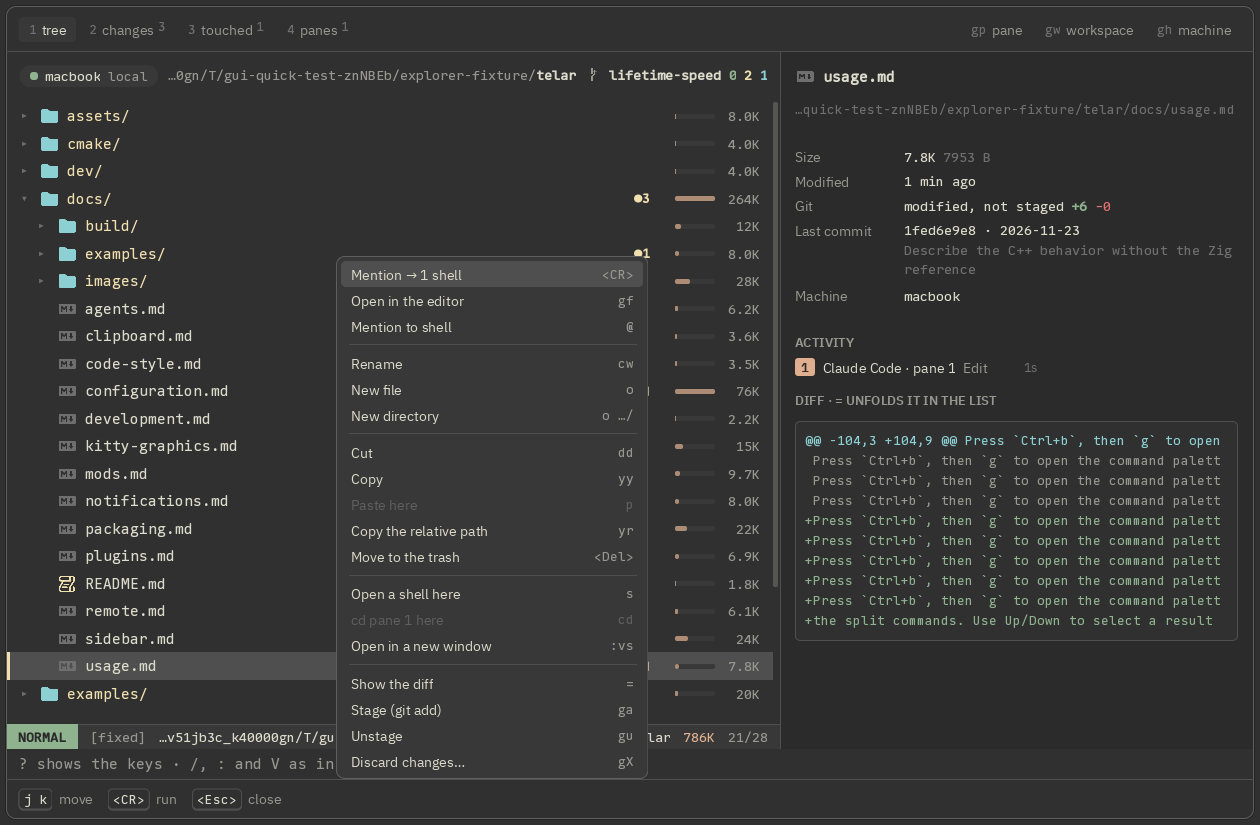
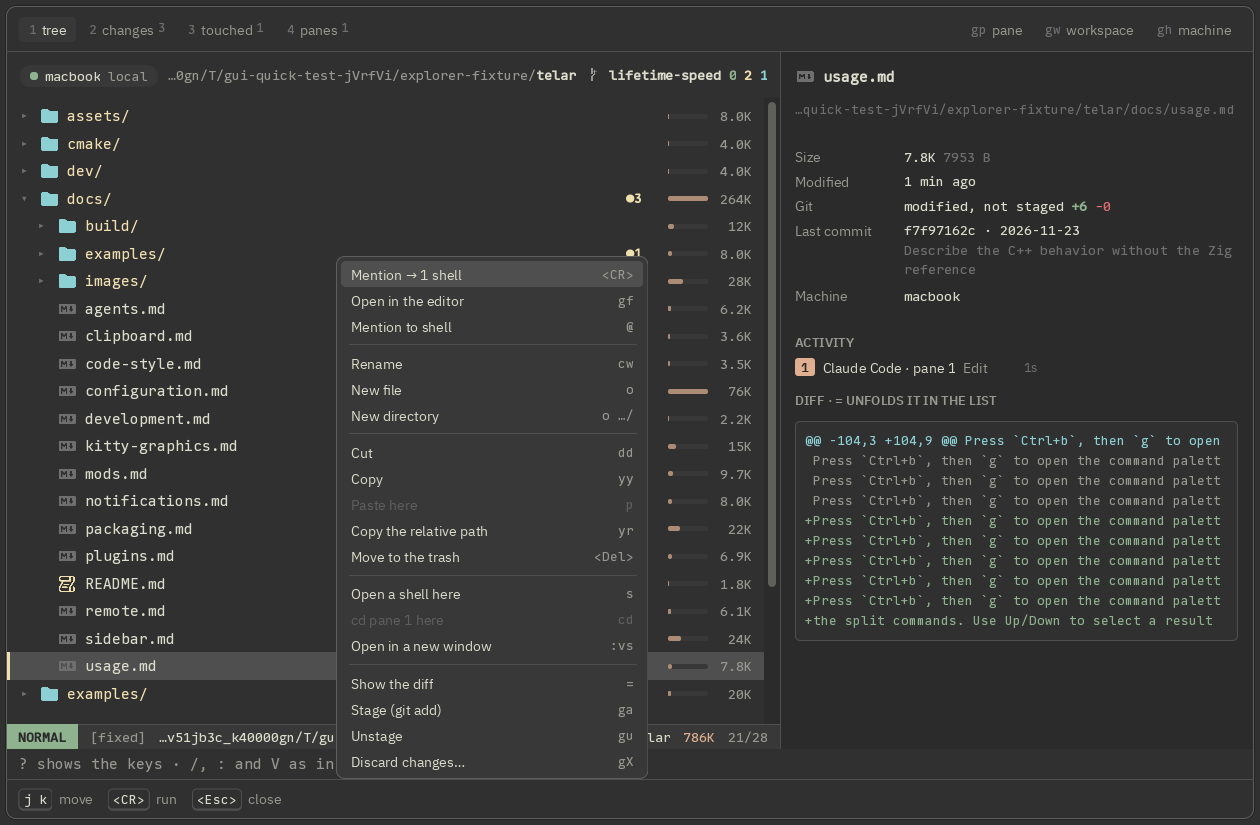
Leave the rows the room of the design's scroll track
The list's own scroll mark was thinner than the one in the design's
picture, so what a row says at its right, who touched it, what git says,
its share and its size, stood seven pixels further right than there.
The rows leave a track as wide as the design's, with the mark in it, and
those columns are where the picture has them, within two pixels.

diff --git a/src/gui/ui/app/overlays/explorer/ExplorerOverlay.qml b/src/gui/ui/app/overlays/explorer/ExplorerOverlay.qml
@@ -85,6 +85,7 @@ FocusScope {
     readonly property real barHeight: Math.round(35.2 * ratio)
     readonly property real commandHeight: Math.round(24 * ratio)
     readonly property real hintsHeight: Math.round(30.4 * ratio)
+    readonly property real scrollTrack: Math.round(12.8 * ratio)
     readonly property real previewWidth: pinned || windows.length > 1 ? 0 : Math.round(Math.max(300 * ratio, body.width * 0.38))
     readonly property real indent: 14 * ratio
     readonly property real gutter: 10 * ratio
@@ -774,7 +775,7 @@ FocusScope {
                             readonly property color nameColor: record.removed ? root.colors.red : record.added ? root.colors.green : record.renamed ? root.colors.yellow : record.ignored ? root.colors.overlay1 : record.directory ? root.colors.accent : root.colors.text
 
                             y: root.rowY(index)
-                            width: list.width - (scrollbar.visible ? scrollbar.width + 2 * root.ratio : 0)
+                            width: list.width - (scrollbar.visible ? scrollbar.width : 0)
                             height: root.rowY(index + 1) - y
 
                             // The directory that would take the rows dragged.
@@ -1013,7 +1014,7 @@ FocusScope {
                                     Rectangle {
                                         id: track
                                         // Beside the size, which is four letters wide at most.
-                                        x: Math.round(parent.width - (30.4 + 6 + 32) * root.ratio)
+                                        x: Math.round(parent.width - (4 * 7.2 + 6 + 32) * root.ratio)
                                         y: Math.round((parent.height - height) / 2)
                                         width: 32 * root.ratio
                                         height: 4 * root.ratio
@@ -1193,18 +1194,26 @@ FocusScope {
                         }
                     }
 
-                    // Where the rows shown stand in the listing.
+                    // Where the rows shown stand in the listing: a track the rows leave free, as
+                    // wide as the design's, and in it the part that shows.
                     Rectangle {
                         id: scrollbar
                         readonly property real share: pane.modelData.rows > 0 ? Math.min(1, pane.modelData.page / pane.modelData.rows) : 1
 
-                        x: parent.width - width - 2 * root.ratio
-                        y: 4 * root.ratio + (pane.modelData.rows > 0 ? (parent.height - 8 * root.ratio) * pane.modelData.top / pane.modelData.rows : 0)
-                        width: 4 * root.ratio
-                        height: Math.max(16 * root.ratio, (parent.height - 8 * root.ratio) * share)
-                        radius: width / 2
-                        color: Qt.alpha(root.colors.text, 0.22)
+                        x: parent.width - width
+                        width: root.scrollTrack
+                        height: parent.height
+                        color: root.colors.panel_bg
                         visible: share < 1
+
+                        Rectangle {
+                            x: Math.round((parent.width - width) / 2)
+                            y: 4 * root.ratio + (pane.modelData.rows > 0 ? (parent.height - 8 * root.ratio) * pane.modelData.top / pane.modelData.rows : 0)
+                            width: Math.round(6.4 * root.ratio)
+                            height: Math.max(16 * root.ratio, (parent.height - 8 * root.ratio) * scrollbar.share)
+                            radius: width / 2
+                            color: Qt.alpha(root.colors.text, 0.3)
+                        }
                     }
                 }
 
@@ -1647,7 +1656,7 @@ FocusScope {
                             // As the bar of a row, and beside the size as it is there.
                             Rectangle {
                                 id: heavyTrack
-                                x: Math.round(parent.width - (30.4 + 6 + 32) * root.ratio)
+                                x: Math.round(parent.width - (4 * 7.2 + 6 + 32) * root.ratio)
                                 y: Math.round((parent.height - height) / 2)
                                 width: 32 * root.ratio
                                 height: 4 * root.ratio
